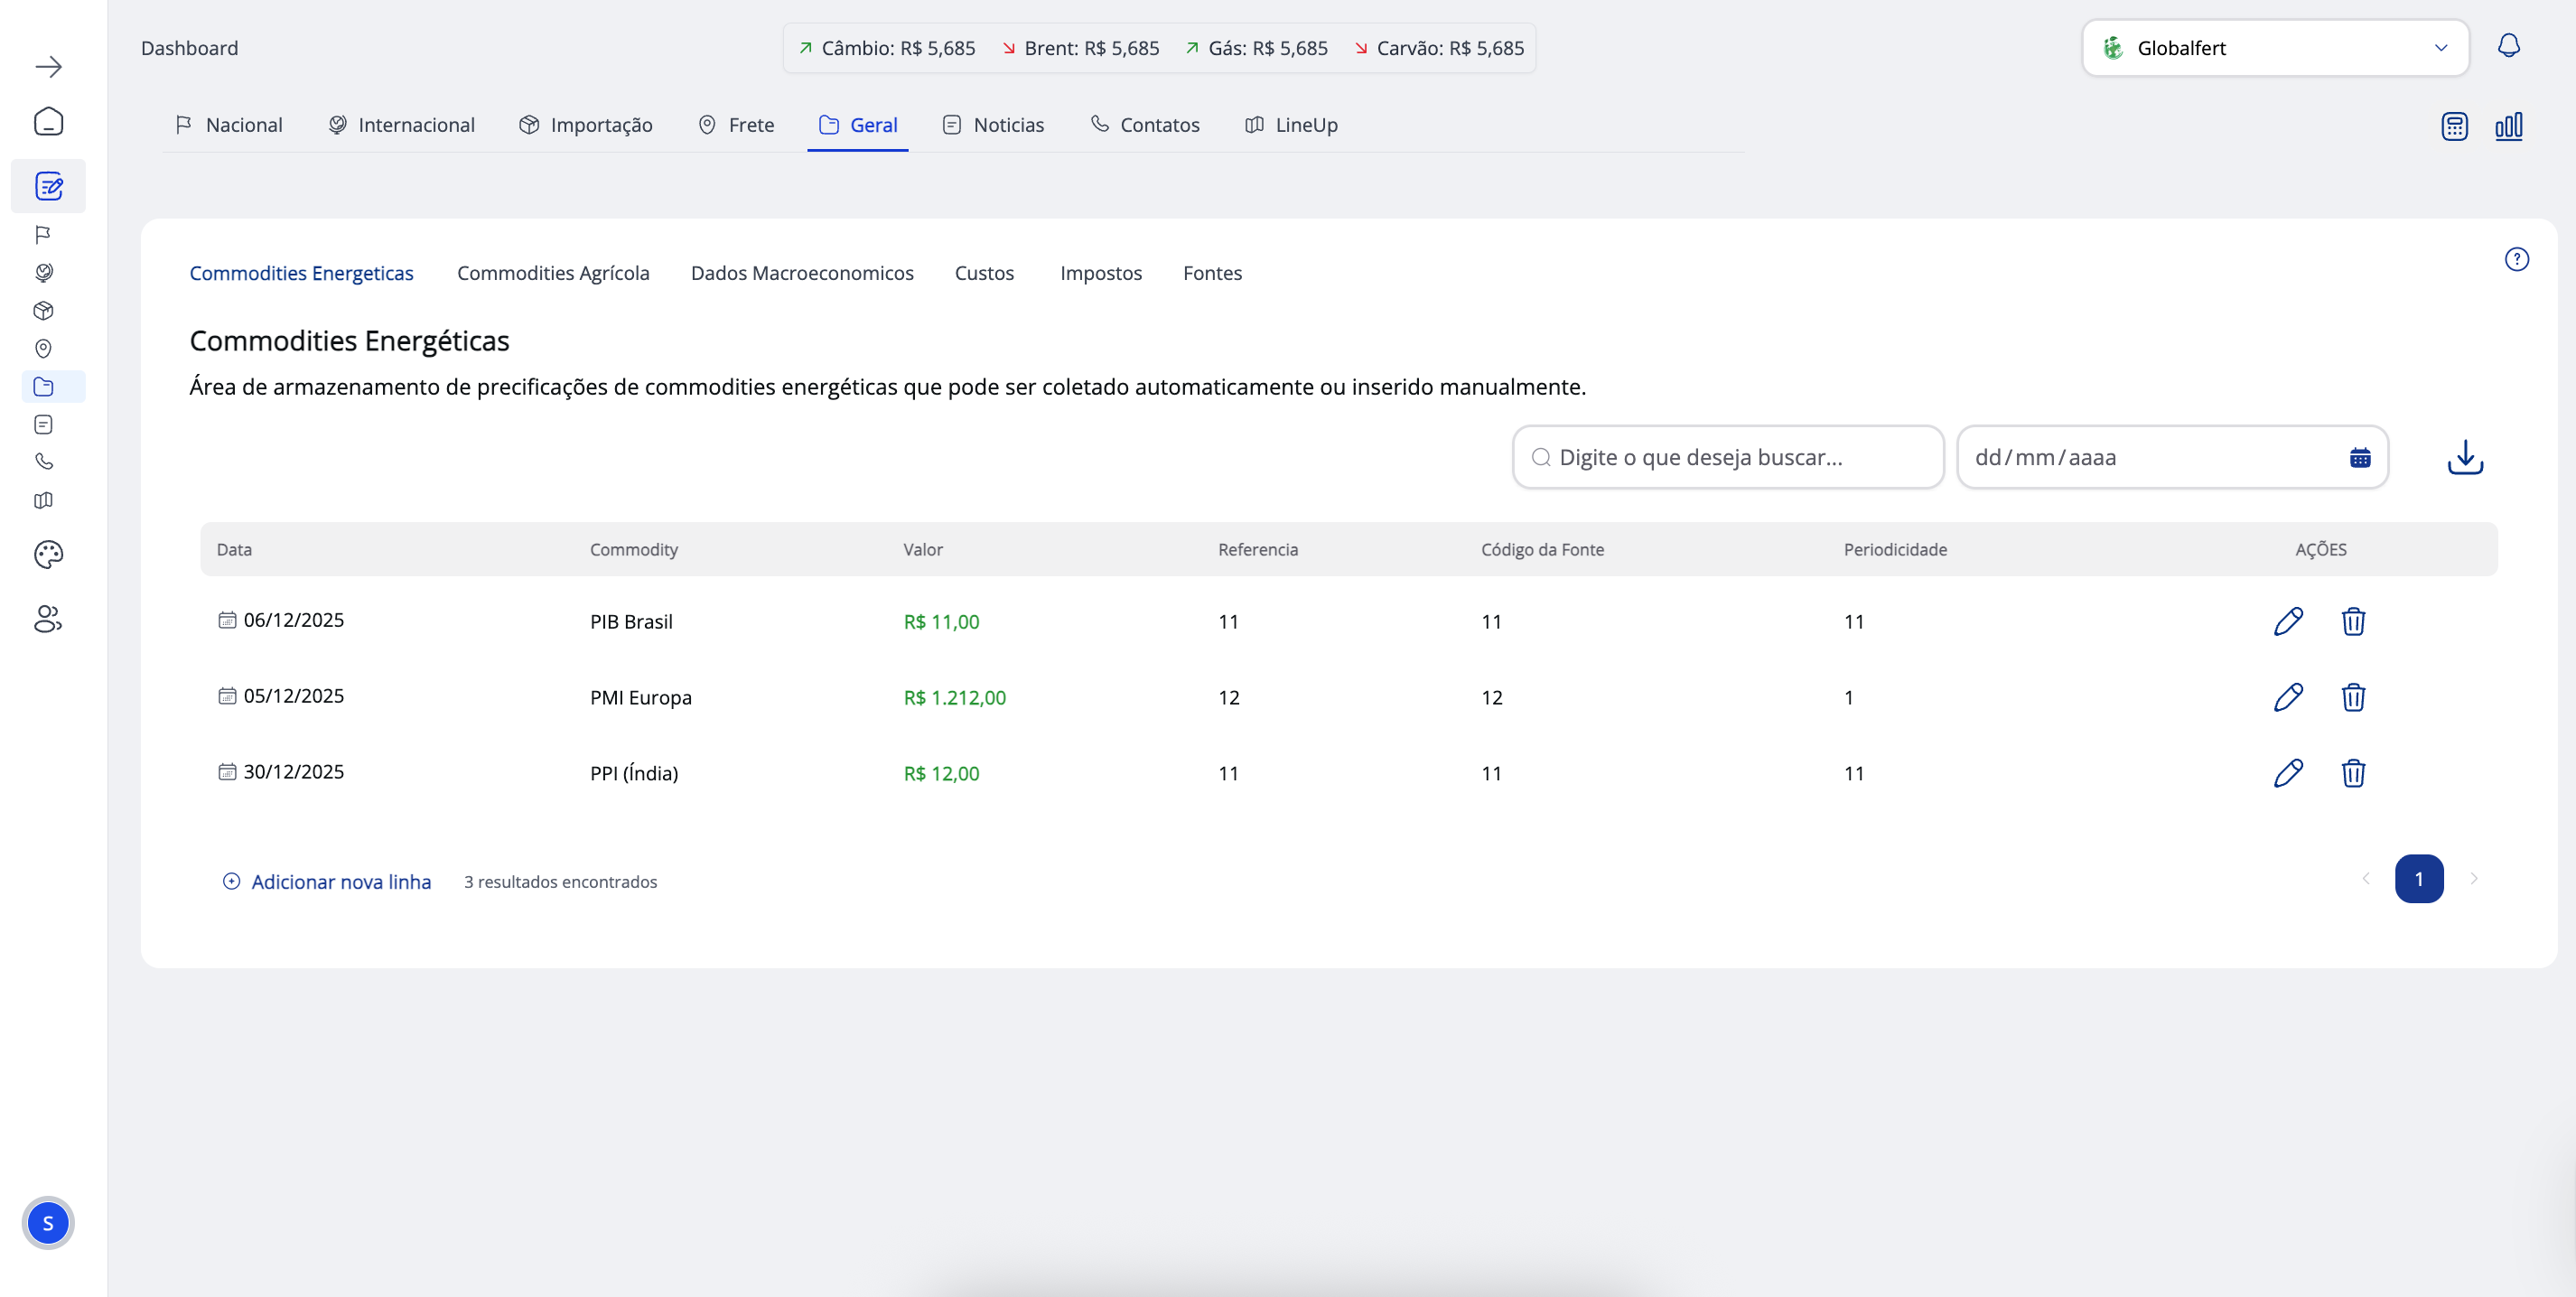
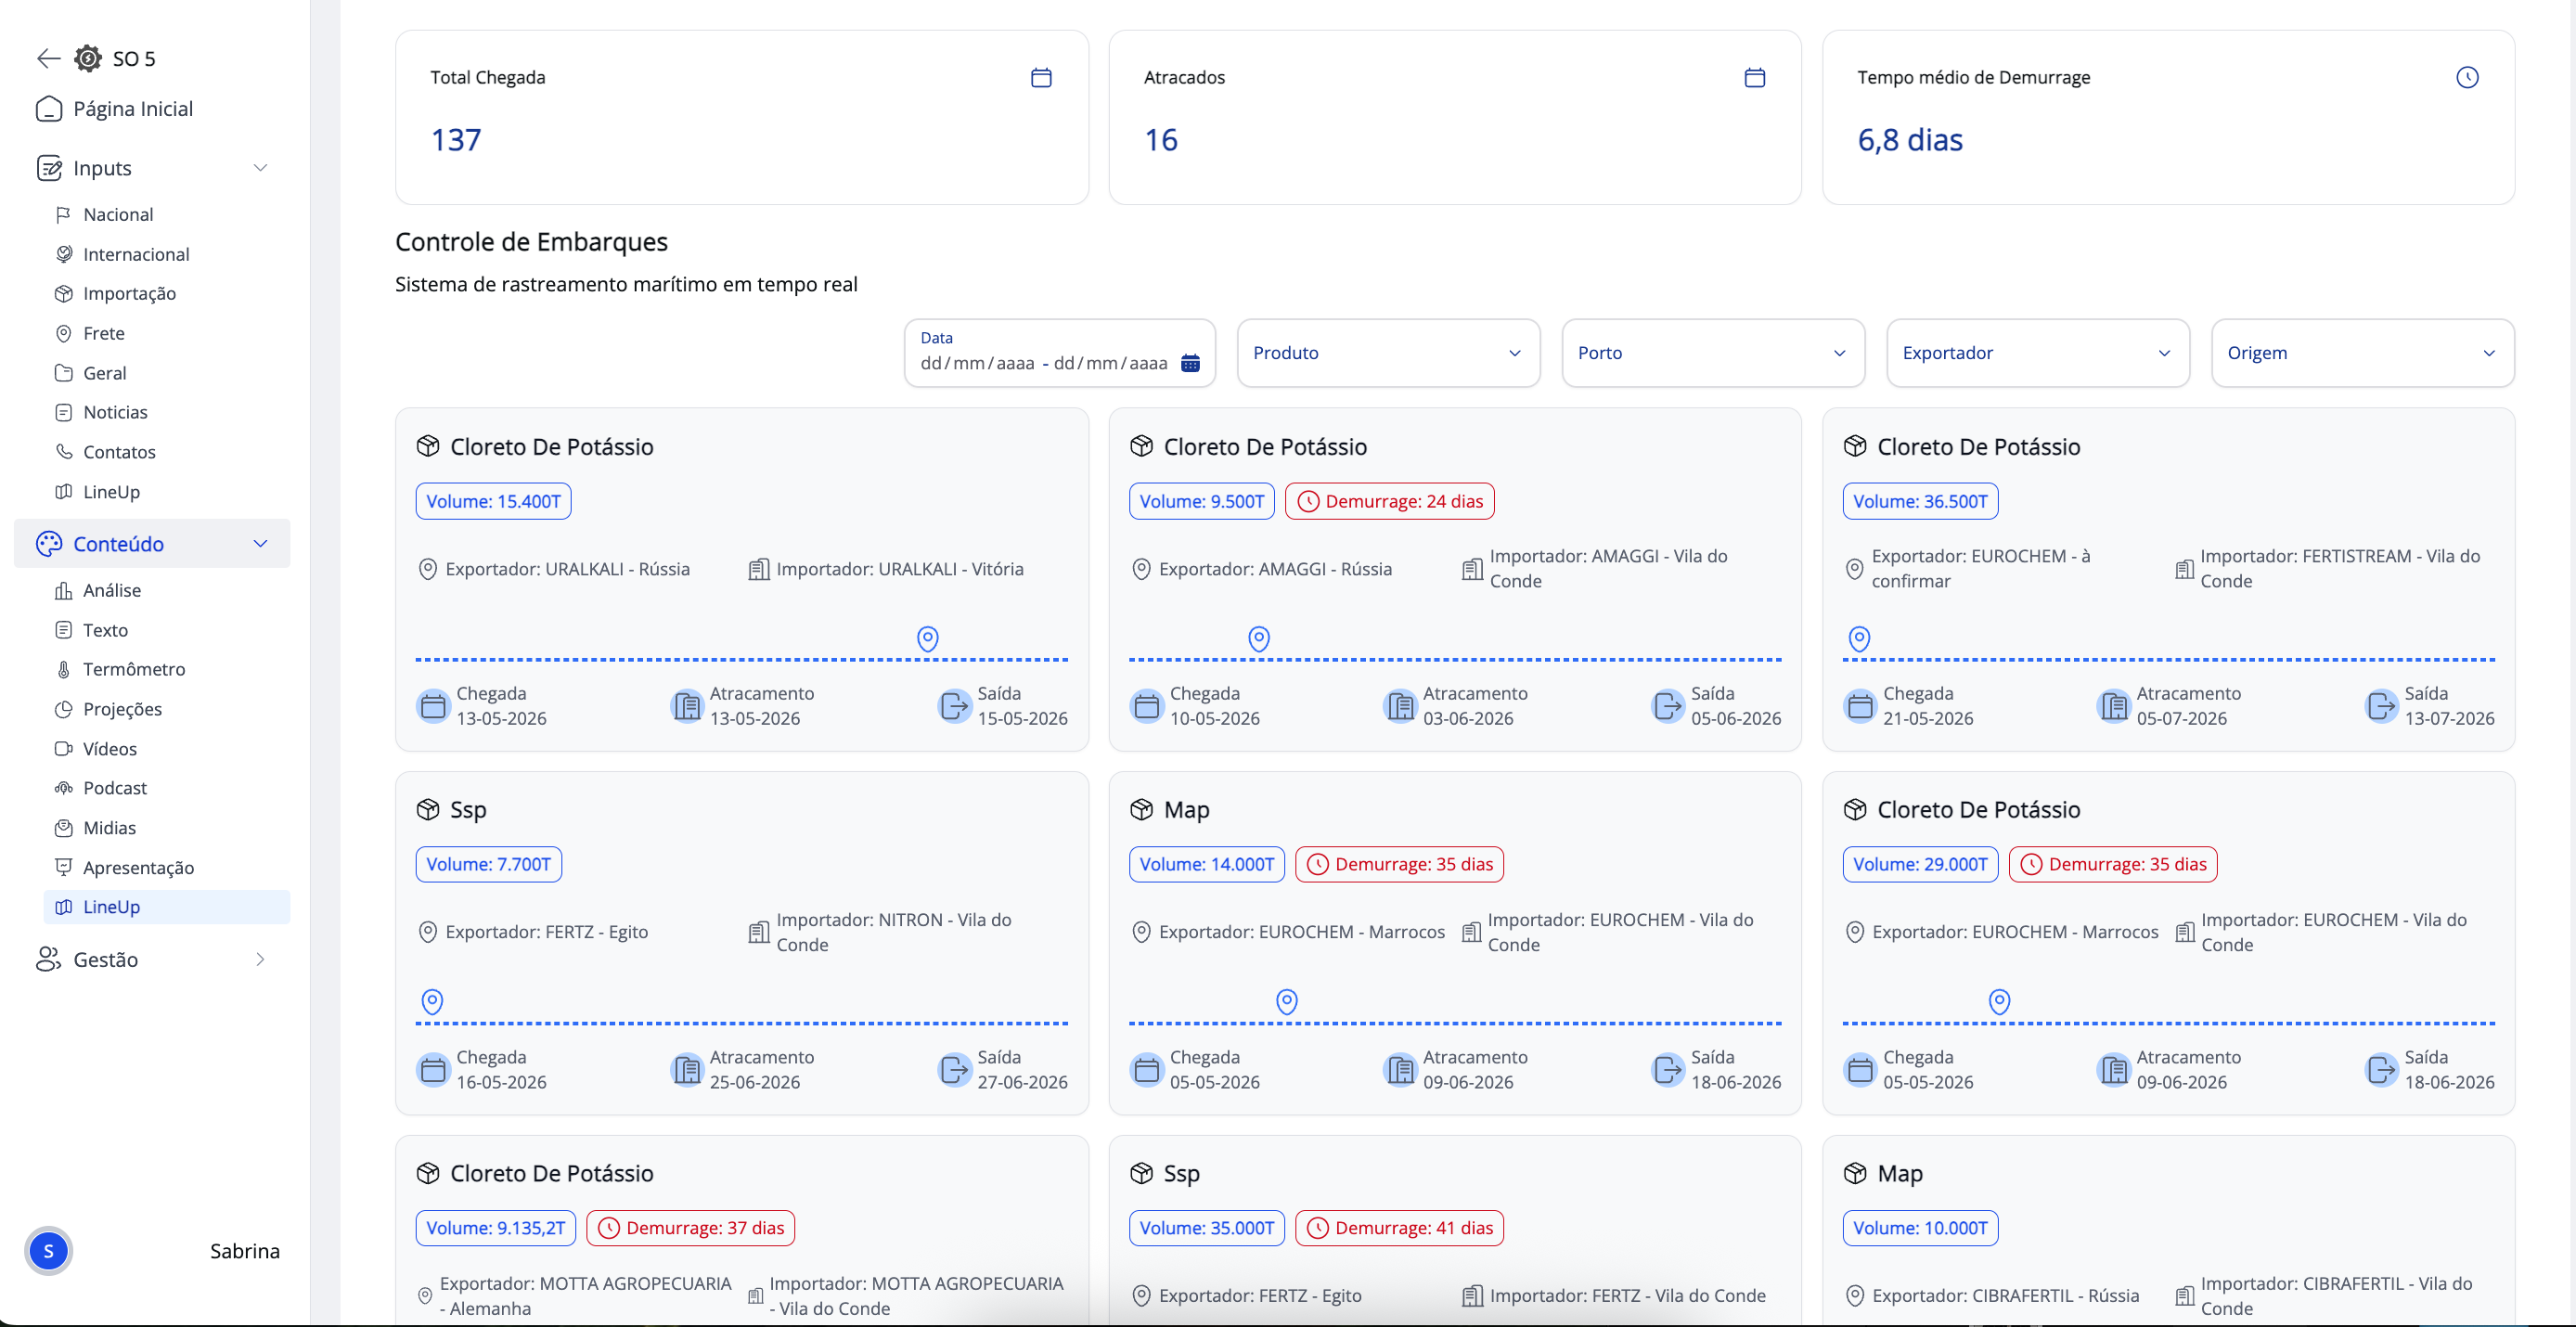
Replace first screen with LineUp shipment tracking dashboard

diff --git a/app/work/so5/page.tsx b/app/work/so5/page.tsx
@@ -26,12 +26,12 @@ function getPillars(lang: Lang) {
 
 function getScreens(lang: Lang) {
   return lang === "pt" ? [
-    { src: "/so5/dashboard-commodities.png", title: "Base de Dados — Commodities Energéticas", desc: "Camada de dados unificada com tickers em tempo real (Câmbio, Brent, Gás, Carvão). Analistas gerenciam dados Nacionais, Internacionais, Importação, Frete e Geral em uma única superfície." },
+    { src: "/so5/dashboard-commodities.png", title: "LineUp — Controle de Embarques", desc: "Sistema de rastreamento marítimo em tempo real. Operadores visualizam total de chegadas, atracamentos e tempo médio de demurrage — com cards por navio mostrando produto, exportador, importador e datas de chegada, atracamento e saída." },
     { src: "/so5/analise-paridade.png", title: "Análise de Paridade", desc: "Calculadora de paridade com toggle diário/semanal. Usuários configuram tipo de cálculo, base e câmbio — e visualizam preço de importação versus média nacional lado a lado em tempo real." },
     { src: "/so5/motor-grafico.png", title: "Motor de Gráfico", desc: "Motor gráfico sob demanda. De matriz de risco a séries temporais — usuários constroem visualizações diretamente dos seus modelos de dados, configuradas em tempo real." },
     { src: "/so5/base-dados.png", title: "Gerenciamento — Marcas e Produtos", desc: "Gestão de dados internos e externos com toggle card/lista. Cada entrada de marca se conecta a produtos, segmentos, colaboradores e modelos de precificação." },
   ] : [
-    { src: "/so5/dashboard-commodities.png", title: "Database — Energy Commodities", desc: "Unified data layer with real-time tickers (FX, Brent, Gas, Coal). Analysts manage National, International, Import, Freight, and General data in a single surface." },
+    { src: "/so5/dashboard-commodities.png", title: "LineUp — Shipment Tracking", desc: "Real-time maritime tracking system. Operators see total arrivals, dockings, and average demurrage time — with per-vessel cards showing product, exporter, importer, and arrival, docking, and departure dates." },
     { src: "/so5/analise-paridade.png", title: "Parity Analysis", desc: "Parity calculator with daily/weekly toggle. Users configure calculation type, base, and exchange rate — and view import price vs. national average side by side in real time." },
     { src: "/so5/motor-grafico.png", title: "Chart Engine", desc: "On-demand chart engine. From risk matrix to time series — users build visualizations directly from their data models, configured in real time." },
     { src: "/so5/base-dados.png", title: "Management — Brands & Products", desc: "Internal and external data management with card/list toggle. Each brand entry connects to products, segments, collaborators, and pricing models." },